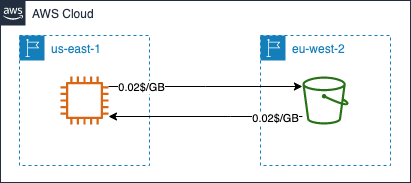
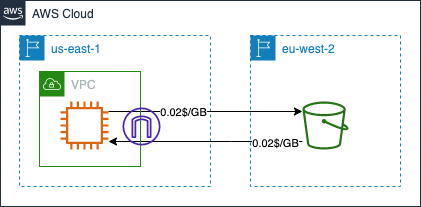
add nat gateway to ec2 diagram

diff --git a/Compute/EC2/EC2-CN.md b/Compute/EC2/EC2-CN.md
@@ -9,6 +9,7 @@
 - 2. [EC2 <--> S3（不使用 S3 终端节点）](#2-ec2----s3不使用-s3-终端节点)
   - 2.1 [EC2 和 S3 属于相同区域](#21-ec2-和-s3-属于相同区域)
   - 2.2 [EC2 和 S3 属于不同区域](#22-ec2-和-s3-属于不同区域)
+  - 2.3 [EC2 通过 NAT-GW 访问 S3](#23-ec2-通过-NAT-GW-访问-s3)
 - 3. [EC2 <--> S3（使用 S3 终端节点）](#3-ec2----s3使用-s3-终端节点)
   - 3.1 [网关类终端节点费用](#31-网关类终端节点费用)
   - 3.2 [接口类终端节点费用](#32-接口类终端节点费用)
@@ -91,6 +92,13 @@ Account-1 的 S3 存储桶位于北弗吉尼亚区域（us-east-1），Account-2
   - 使用 EC2 实例下载时，产生 0.02 USD/GB 跨区域流量费；
   - 使用配置了 AKSK 的笔记本下载时，产生 0.09 USD/GB 的 S3 向互联网传输数据流量费；
   - 使用未配置 AKSK 的笔记本下载时，任务失败。
+
+### 2.3 EC2 通过 NAT-GW 访问 S3
+当 EC2 实例部署在私有子网内、且没有部署 S3 endpoint 时，EC2 实例必须通过 NAT Gateway 访问 S3 中资源。除了 2.1、2.2 中介绍的成本外，还会产生 NAT Gateway 的流量处理费。
+
+![Traffic via NAT gateway](png/02.05-EC2-NAT-S3.png)  
+
+关于 NAT Gateway 的流量处理费用计算信息，可参考 [这里](../../Networking/VPC/VPC-CN.md#2-nat-gateway)。
 
 [返回顶部](#Summary)
 

diff --git a/Compute/EC2/EC2-EN.md b/Compute/EC2/EC2-EN.md
@@ -97,6 +97,13 @@ Data transfer costs incurred by downloading objects from S3 storage buckets are 
   - When downloading objects with Laptop configured AKSK, data transfer out fee, 0.09 USD/GB;
   - When downloading objects with Laptop without AKSK, mission failed.
 
+### 2.3 EC2 access S3 via NAT Gateway
+When an EC2 instance is deployed in a private subnet without S3 endpoint, the EC2 instance must access S3 bucket via NAT Gateway. In addition to the costs described in 2.1 and 2.2, NAT Gateway traffic processing fees are added.
+
+![Traffic via NAT gateway](png/02.05-EC2-NAT-S3.png)  
+
+For detail information on calculating traffic processing costs for NAT Gateway, please refer to [HERE](../../Networking/VPC/VPC-CN.md#2-nat-gateway).
+
 [Back to Top](#Summary)
 
 ## 3. EC2 <--> S3 (with S3 endpoint)
